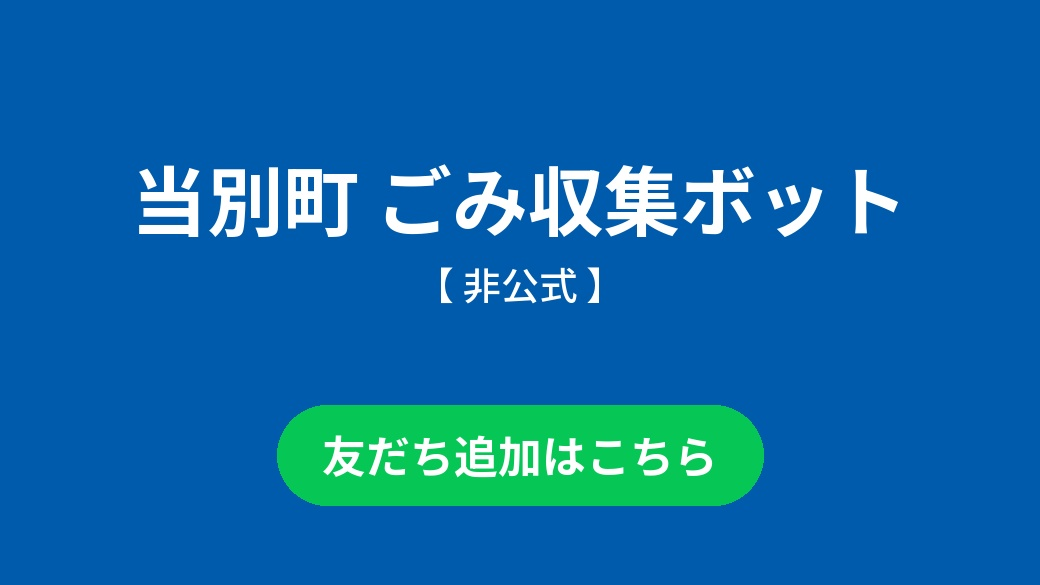
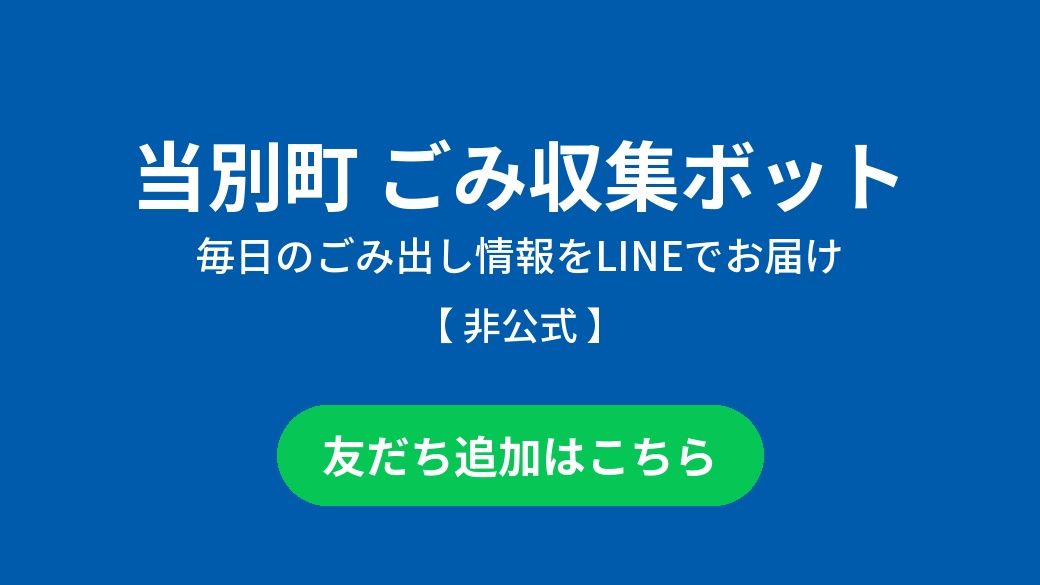
バナーにサブタイトル「毎日のごみ出し情報をLINEでお届け」を追加

Changed region(s): [[0.1231, 0.2462, 0.8615, 0.5846]]

diff --git a/generate_banner.py b/generate_banner.py
@@ -36,18 +36,21 @@ def generate_banner():
 
     font_path = ensure_font()
     title_font = load_font(font_path, 76)
+    sub_font = load_font(font_path, 40, "Medium")
     label_font = load_font(font_path, 38, "Medium")
     btn_font = load_font(font_path, 44)
 
     img = Image.new("RGB", (width, height), color=bg_color)
     draw = ImageDraw.Draw(img)
 
-    draw.text((width // 2, 200), "当別町 ごみ収集ボット",
+    draw.text((width // 2, 175), "当別町 ごみ収集ボット",
               font=title_font, fill=text_color, anchor="mm")
-    draw.text((width // 2, 285), "【 非公式 】",
+    draw.text((width // 2, 255), "毎日のごみ出し情報をLINEでお届け",
+              font=sub_font, fill=text_color, anchor="mm")
+    draw.text((width // 2, 325), "【 非公式 】",
               font=label_font, fill=text_color, anchor="mm")
 
-    btn_text = "友だち追加はこちら"
+    btn_text = "友だち追加で無料でご利用"
     bbox = draw.textbbox((0, 0), btn_text, font=btn_font)
     btn_w = bbox[2] - bbox[0] + 90
     btn_h = 100
